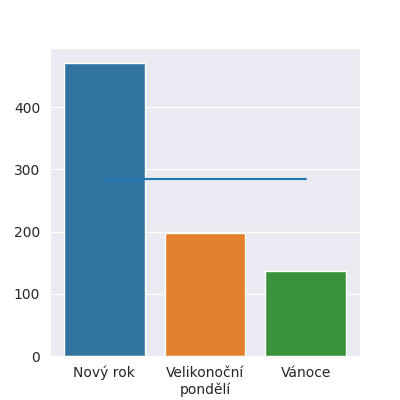
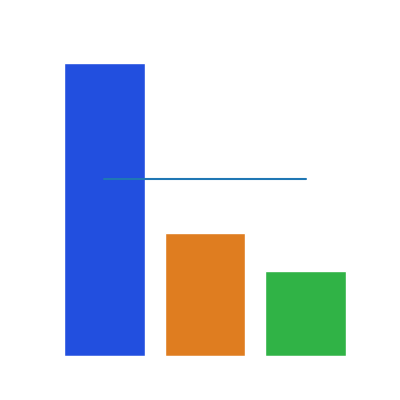
save colors

diff --git a/doc.py b/doc.py
@@ -33,6 +33,21 @@ def avg_accidents_per_day(df: pd.DataFrame):
     return avg_per_day
 
 
+yellow = '#fdb705'
+
+
+# yellow = '#fdbb05'
+
+
+# yellow = '#fdbf05'
+
+palette = sns.color_palette("bright")
+
+def make_tick_labels_white(xtick_labels, ytick_labels):
+    for tick in xtick_labels + ytick_labels:
+        tick.set_color('#ffffff')
+
+
 def fig_accidents_during_week(df: pd.DataFrame):
     """
     Function creates figures showing accident count during week
@@ -46,6 +61,8 @@ def fig_accidents_during_week(df: pd.DataFrame):
     max_y = 0
 
     sns.set_style('darkgrid')
+    # palette = sns.color_palette("bright")
+    # palette = sns.light_palette("#05fdaa", reverse=True, n_colors=7)
 
     # create plots
     for i in range(2):
@@ -54,9 +71,10 @@ def fig_accidents_during_week(df: pd.DataFrame):
         number_of_dates_in_df = len(df1['date'].unique())
         accidents_per_week_day_df = df1[['p1', 'weekday(p2a)']].groupby('weekday(p2a)').count().reset_index()
         accidents_per_week_day_df['p1'] = accidents_per_week_day_df['p1'] * 365 / number_of_dates_in_df
+        # rank = accidents_per_week_day_df['p1'].argsort().argsort()
 
-        fig, ax = plt.subplots(1, 1, figsize=(4, 4))
-        sns.barplot(data=accidents_per_week_day_df, y='p1', x=day_names)
+        fig, ax = plt.subplots(1, 1, figsize=(3.5, 3.5))
+        sns.barplot(data=accidents_per_week_day_df, y='p1', x=day_names, palette=palette)
 
         axes.append(ax)
         figs.append(fig)
@@ -66,9 +84,10 @@ def fig_accidents_during_week(df: pd.DataFrame):
     for i in range(2):
         axes[i].set_ylabel('počet')
         axes[i].set_title(titles[i])
+        make_tick_labels_white(ax.get_xticklabels(), ax.get_yticklabels())
         # axes[i].set_ylim(top=max_y * 1.2)
 
-        figs[i].savefig(f'weekday_{i + 1}.png')
+        figs[i].savefig(f'weekday_{i + 1}.png', transparent=True)
 
     plt.show()
     plt.close()
@@ -101,13 +120,15 @@ def fig_holidays(df: pd.DataFrame):
     fig, ax = plt.subplots(1, 1, figsize=(4, 4))
 
     # plot bars
-    sns.barplot(ax=ax, x=x_names, y=counts)
+    sns.barplot(ax=ax, x=x_names, y=counts, palette=palette)
+
+    make_tick_labels_white(ax.get_xticklabels(), ax.get_yticklabels())
 
     # plot avg
     avg = [avg_accidents_per_day(df)] * 3
     sns.lineplot(ax=ax, x=x_names, y=avg)
 
-    fig.savefig(f'holidays.png')
+    fig.savefig(f'holidays.png', transparent=True)
 
     plt.show()
     plt.close()
@@ -199,7 +220,7 @@ def generate_data(df: pd.DataFrame):
     print(f'Average accident count per day:\t{avg_accidents_per_day(df)}')
     fig_accidents_during_week(df)
     fig_holidays(df)
-    print('\n' + tab_sunrise_sunset(df))
+    print('\n', tab_sunrise_sunset(df))
 
 
 if __name__ == '__main__':
